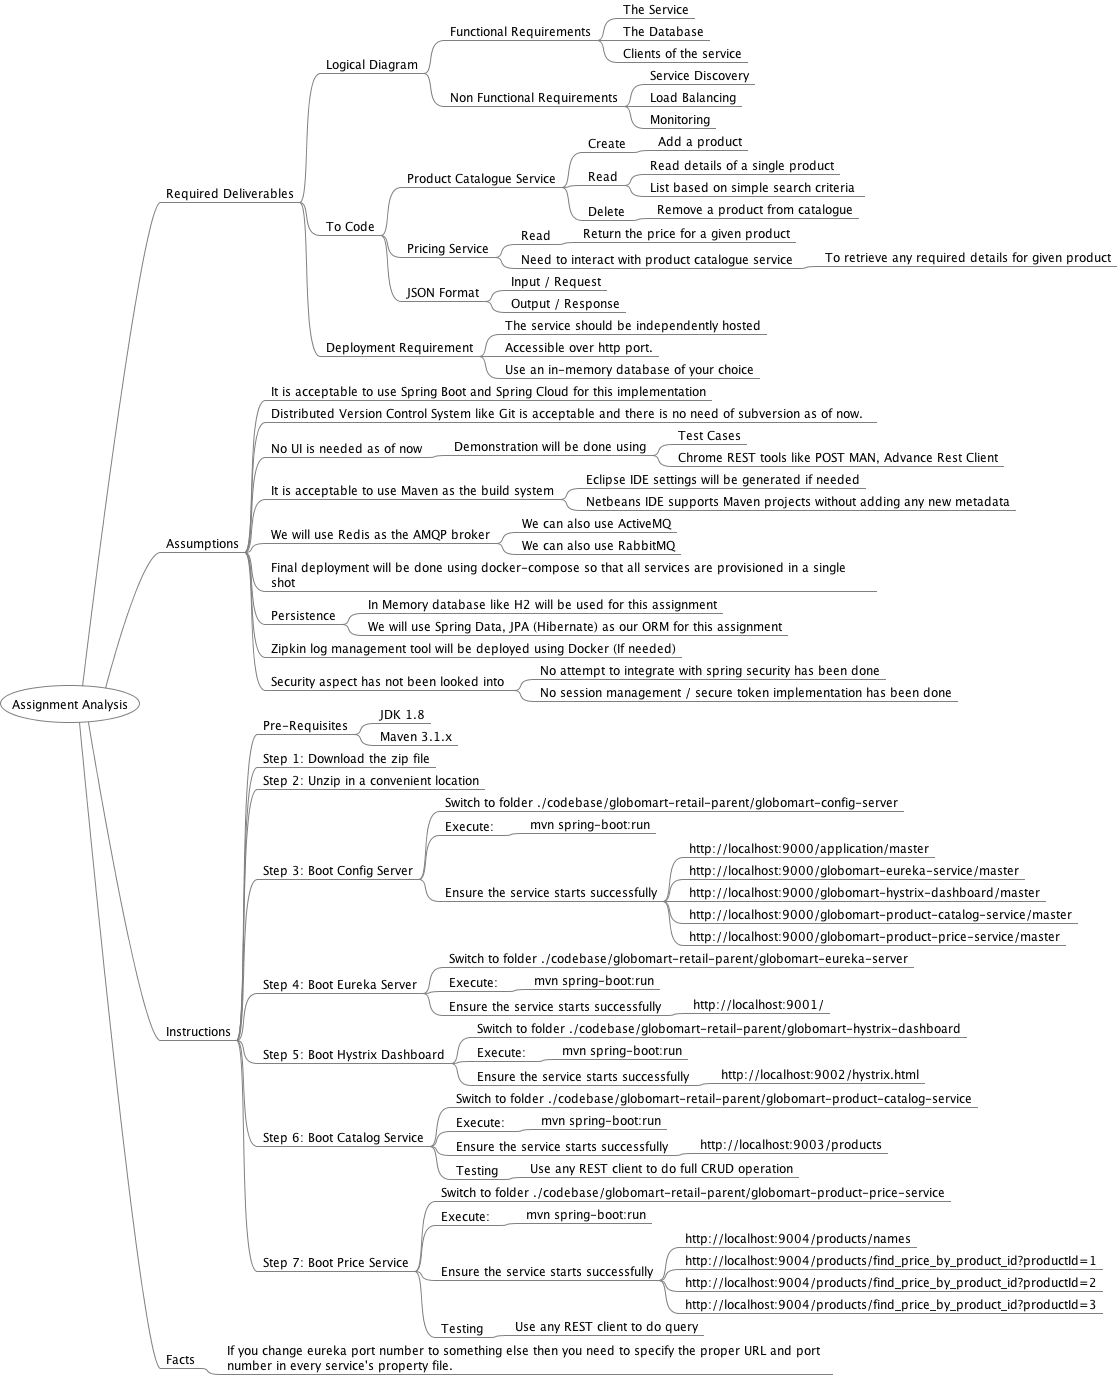
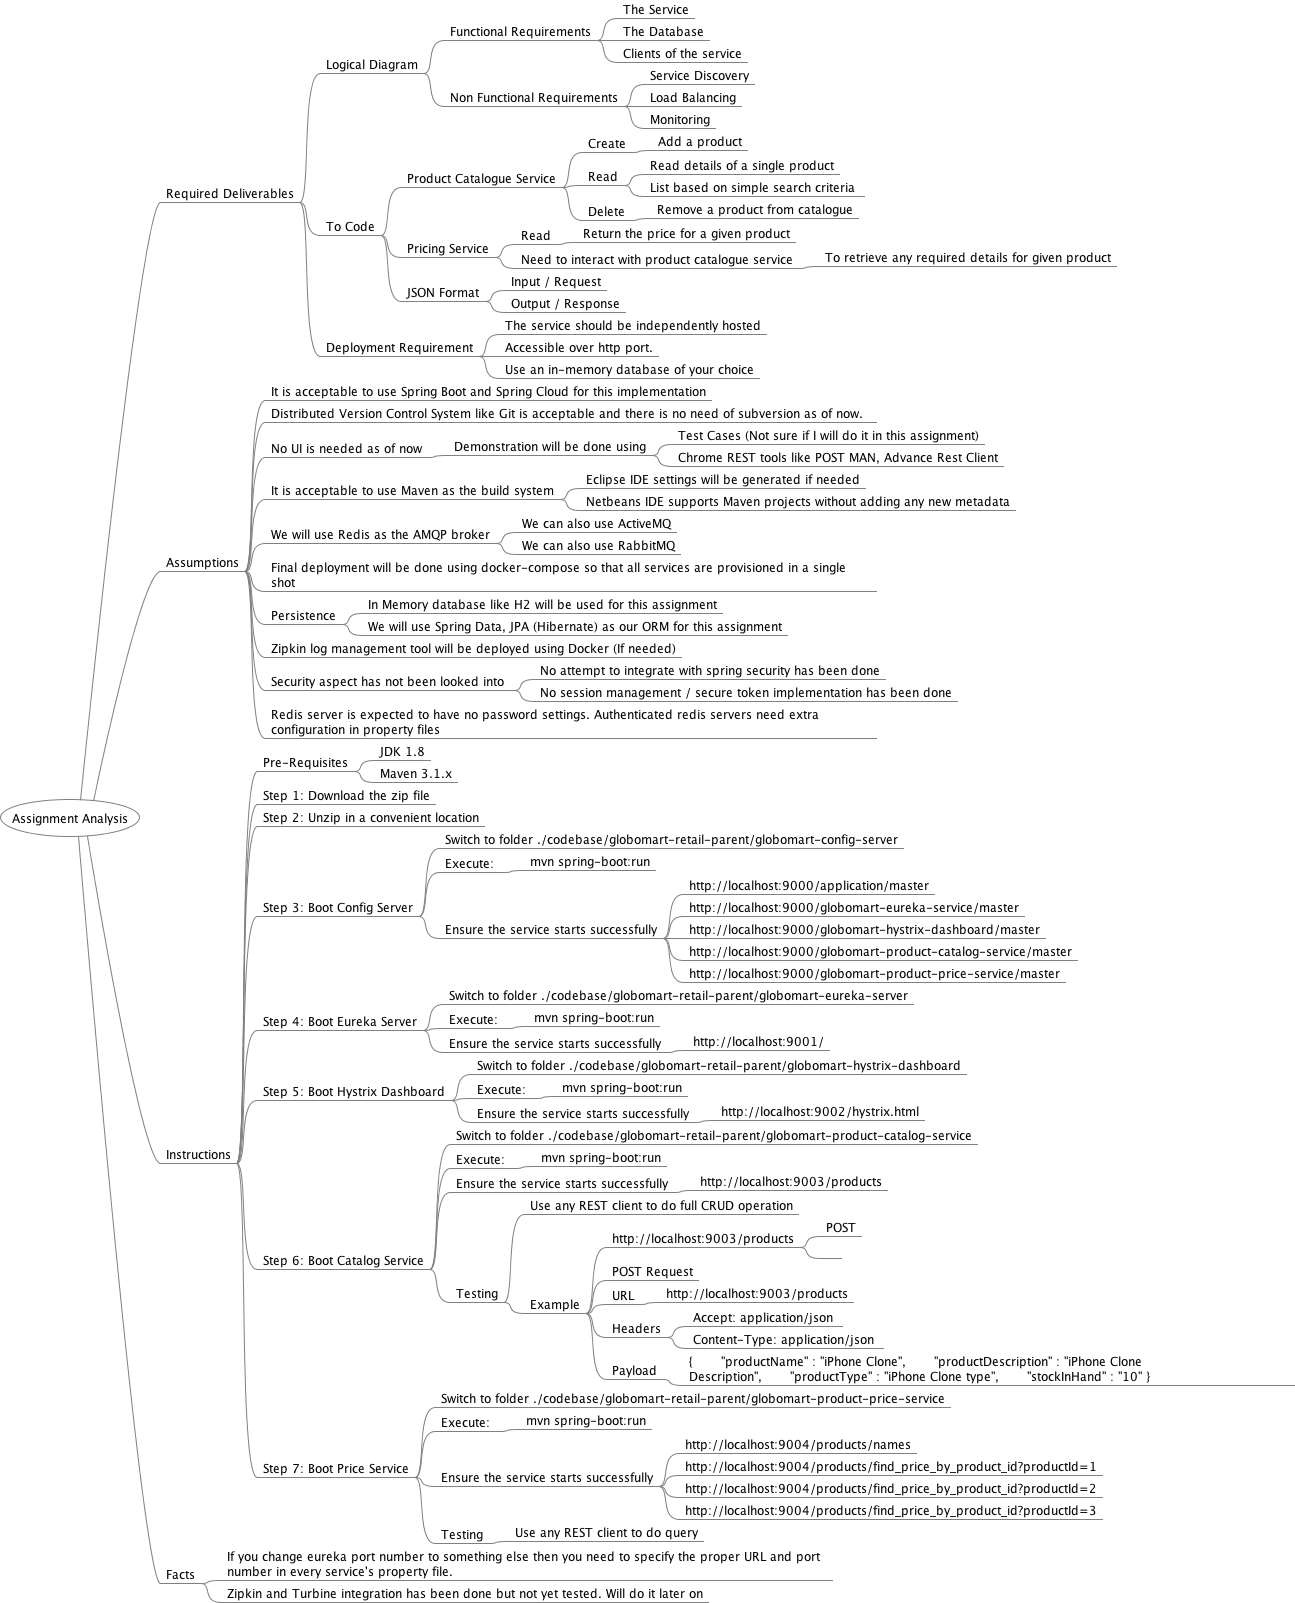
Bug in hysteria fallback resolved. More analysis comments added.

diff --git a/documents/Assignment Analysis.mm b/documents/Assignment Analysis.mm
@@ -51,7 +51,7 @@
 <node CREATED="1456252437247" ID="ID_971224529" MODIFIED="1456252462602" TEXT="Distributed Version Control System like Git is acceptable and there is no need of subversion as of now."/>
 <node CREATED="1456252484794" ID="ID_1539274969" MODIFIED="1456252488770" TEXT="No UI is needed as of now">
 <node CREATED="1456252489792" ID="ID_146761325" MODIFIED="1456252503882" TEXT="Demonstration will be done using">
-<node CREATED="1456252504163" ID="ID_133509442" MODIFIED="1456252506163" TEXT="Test Cases"/>
+<node CREATED="1456252504163" ID="ID_133509442" MODIFIED="1456304282902" TEXT="Test Cases (Not sure if I will do it in this assignment)"/>
 <node CREATED="1456252506603" ID="ID_736332376" MODIFIED="1456252532722" TEXT="Chrome REST tools like POST MAN, Advance Rest Client"/>
 </node>
 </node>
@@ -73,6 +73,7 @@
 <node CREATED="1456263420238" ID="ID_1462781564" MODIFIED="1456263429736" TEXT="No attempt to integrate with spring security has been done"/>
 <node CREATED="1456263430005" ID="ID_697935719" MODIFIED="1456263439152" TEXT="No session management / secure token implementation has been done"/>
 </node>
+<node CREATED="1456304231166" ID="ID_1932220120" MODIFIED="1456304257206" TEXT="Redis server is expected to have no password settings. Authenticated redis servers need extra configuration in property files"/>
 </node>
 <node CREATED="1456263447688" ID="ID_550777837" MODIFIED="1456263450234" POSITION="right" TEXT="Instructions">
 <node CREATED="1456263457765" ID="ID_1621603896" MODIFIED="1456263461118" TEXT="Pre-Requisites">
@@ -122,6 +123,23 @@
 </node>
 <node CREATED="1456264022588" ID="ID_1173573738" MODIFIED="1456264024428" TEXT="Testing">
 <node CREATED="1456263994721" ID="ID_1233326979" MODIFIED="1456264015649" TEXT="Use any REST client to do full CRUD operation"/>
+<node CREATED="1456303817091" ID="ID_655074744" MODIFIED="1456303818394" TEXT="Example">
+<node CREATED="1456303818655" ID="ID_1384656183" MODIFIED="1456303826511" TEXT="http://localhost:9003/products">
+<node CREATED="1456303828951" ID="ID_180109797" MODIFIED="1456303830342" TEXT="POST"/>
+<node CREATED="1456303830630" ID="ID_1856337570" MODIFIED="1456303830630" TEXT=""/>
+</node>
+<node CREATED="1456304115830" ID="ID_1673896829" MODIFIED="1456304119452" TEXT="POST Request"/>
+<node CREATED="1456304119996" ID="ID_1009192335" MODIFIED="1456304120948" TEXT="URL">
+<node CREATED="1456304121833" ID="ID_1633297689" MODIFIED="1456304123140" TEXT="http://localhost:9003/products"/>
+</node>
+<node CREATED="1456304124297" ID="ID_787028682" MODIFIED="1456304126293" TEXT="Headers">
+<node CREATED="1456304139500" ID="ID_1384155926" MODIFIED="1456304148737" TEXT="Accept: application/json "/>
+<node CREATED="1456304149810" ID="ID_642908296" MODIFIED="1456304150577" TEXT="Content-Type: application/json "/>
+</node>
+<node CREATED="1456304156257" ID="ID_121000791" MODIFIED="1456304157752" TEXT="Payload">
+<node CREATED="1456304158041" ID="ID_1234866406" MODIFIED="1456304158872" TEXT="{       &quot;productName&quot; : &quot;iPhone Clone&quot;,       &quot;productDescription&quot; : &quot;iPhone Clone Description&quot;,       &quot;productType&quot; : &quot;iPhone Clone type&quot;,       &quot;stockInHand&quot; : &quot;10&quot; }"/>
+</node>
+</node>
 </node>
 </node>
 <node CREATED="1456264028682" ID="ID_896803109" MODIFIED="1456264036212" TEXT="Step 7: Boot Price Service">
@@ -142,6 +160,7 @@
 </node>
 <node CREATED="1456285784417" ID="ID_30085516" MODIFIED="1456285785777" POSITION="right" TEXT="Facts">
 <node CREATED="1456285786022" ID="ID_415045906" MODIFIED="1456285809454" TEXT="If you change eureka port number to something else then you need to specify the proper URL and port number in every service&apos;s property file."/>
+<node CREATED="1456304185608" ID="ID_1375085811" MODIFIED="1456304199201" TEXT="Zipkin and Turbine integration has been done but not yet tested. Will do it later on"/>
 </node>
 </node>
 </map>

diff --git a/codebase/globomart-retail-parent/globomart-product-price-service/src/main/java/com/globomart/retail/GlobomartProductPriceServiceApplication.java b/codebase/globomart-retail-parent/globomart-product-price-service/src/main/java/com/globomart/retail/GlobomartProductPriceServiceApplication.java
@@ -48,7 +48,7 @@ public class GlobomartProductPriceServiceApplication {
     @Bean
     CommandLineRunner runner(PriceRepository rr) {
         return args -> {
-            Arrays.asList("1, 2, 3, 1, 2, 3, 1, 2, 3".split(","))
+            Arrays.asList("1, 2, 3".split(","))
                     .forEach(x -> rr.save(new Price(Long.parseLong(x.trim()),
                             Math.floor(Math.random() * 1000) / 100,
                             new Date(System.currentTimeMillis()))));

diff --git a/codebase/globomart-retail-parent/globomart-product-price-service/src/main/java/com/globomart/retail/ProductApiGatewayRestController.java b/codebase/globomart-retail-parent/globomart-product-price-service/src/main/java/com/globomart/retail/ProductApiGatewayRestController.java
@@ -85,7 +85,7 @@ public class ProductApiGatewayRestController {
      * 
      * @return 
      */
-    public List<SimplePrice> getPriceByProductIdFallback() {
+    public List<SimplePrice> getPriceByProductIdFallback(Long productId) {
         return Collections.emptyList();
     }
 
